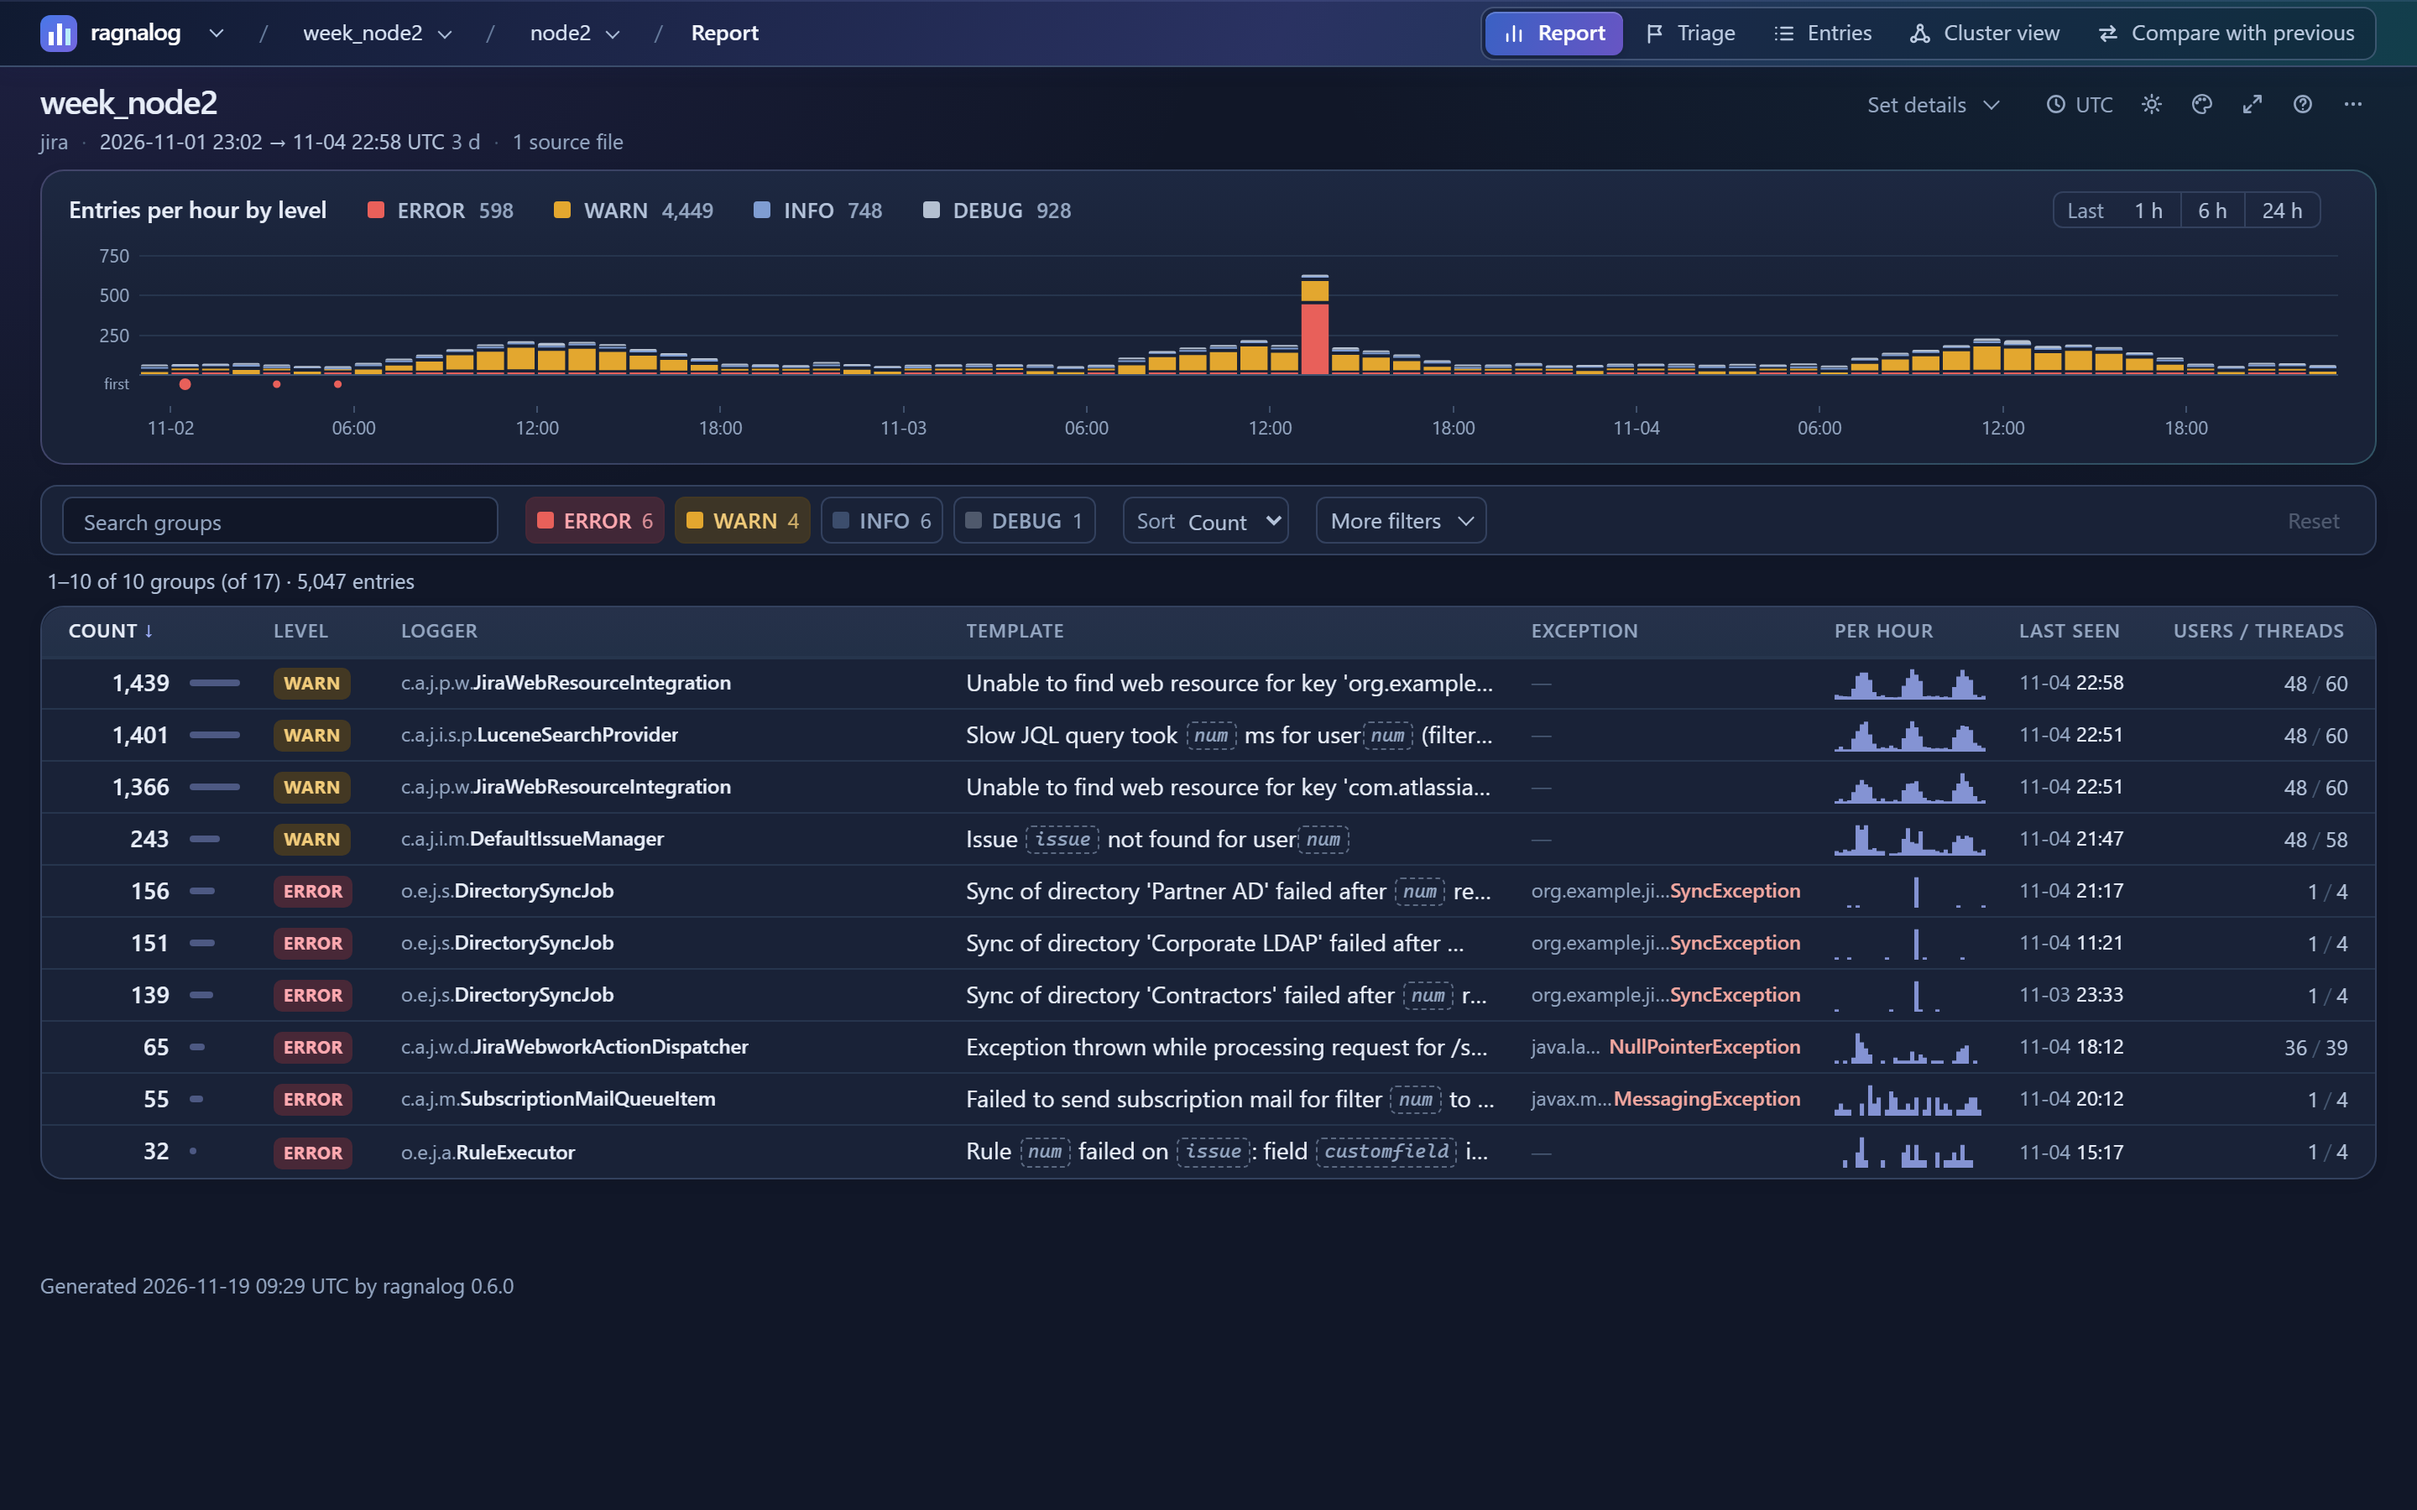
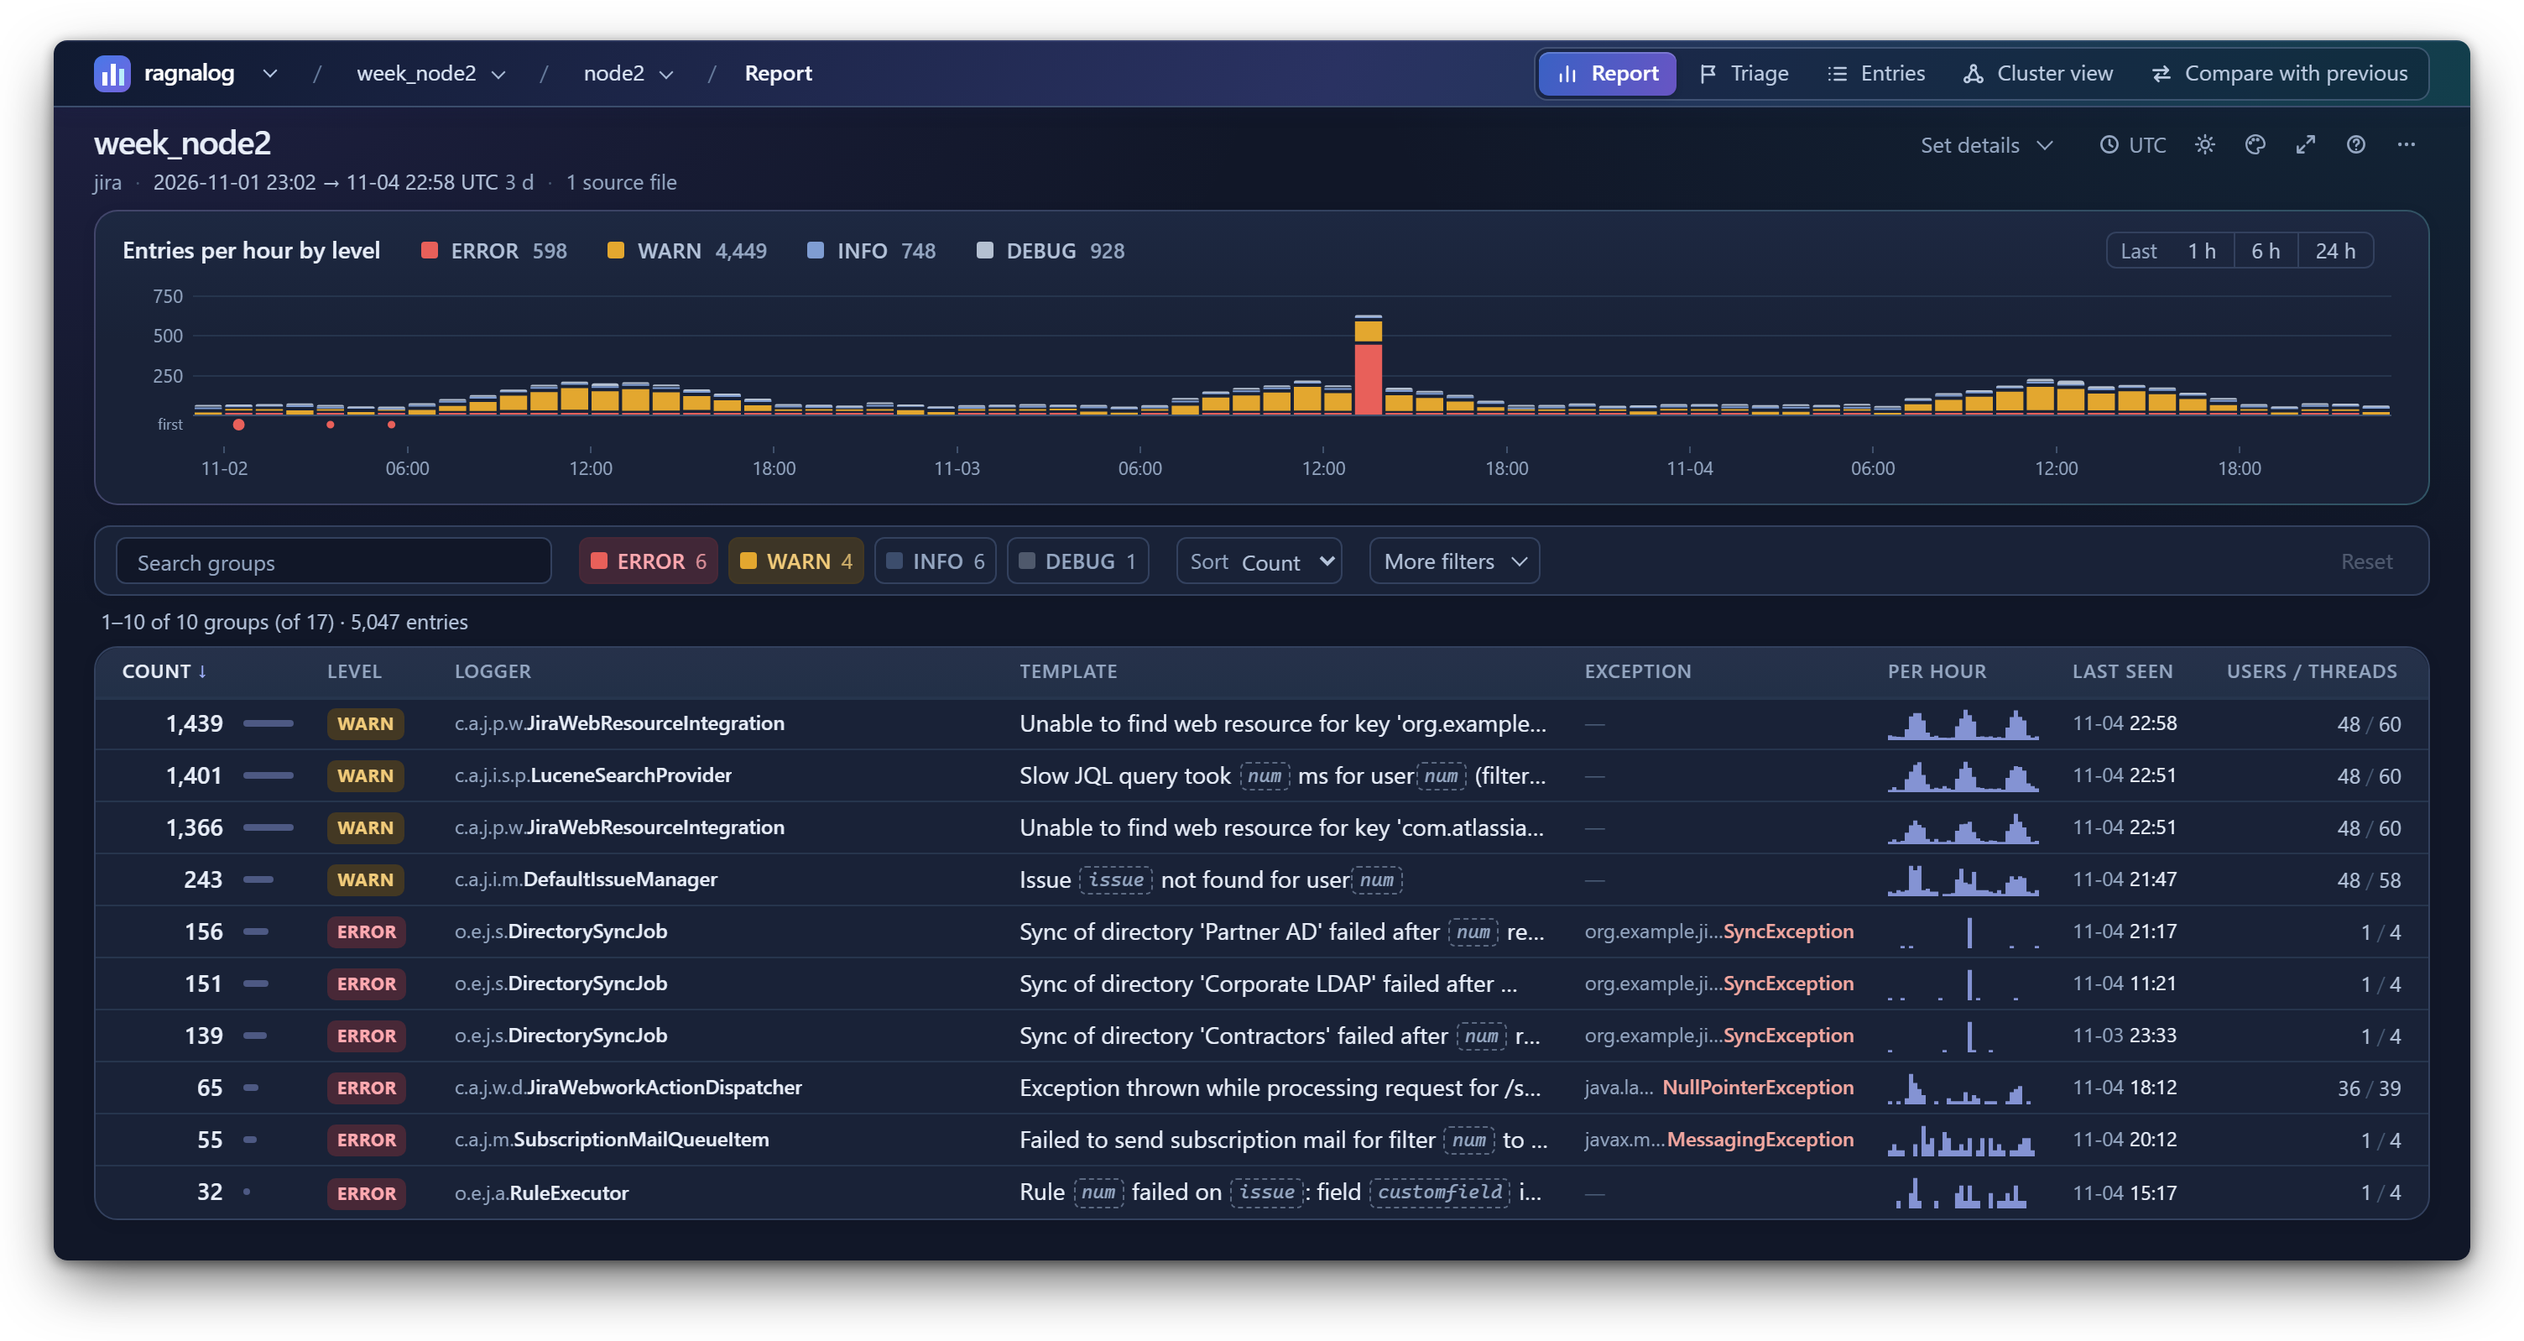
README hero: cropped below the table, 20% narrower, with a shadow; no caption
scripts/screenshots.mjs cuts the hero shots below the table of groups (bottom margin =
side margin) and bakes a soft shadow into a transparent PNG, since GitHub drops CSS from
READMEs.

Changed region(s): [[0.0, 0.0, 1.0, 1.0], [0.625, 0.3986, 0.6875, 0.4293], [0.625, 0.4906, 0.6562, 0.5213]]

diff --git a/README.md b/README.md
@@ -20,10 +20,8 @@
 
 <a href="docs/img/hero-light.png"><picture>
   <source media="(prefers-color-scheme: dark)" srcset="docs/img/hero-dark.png">
-  <img src="docs/img/hero-light.png" alt="The report of one node: entries per hour by level with an error spike, level filters and the table of groups" width="100%">
+  <img src="docs/img/hero-light.png" alt="The report of one node: entries per hour by level with an error spike, level filters and the table of groups" width="84%">
 </picture></a>
-
-<sub>The report of one node, from synthetic demo logs.</sub>
 
 </div>
 
